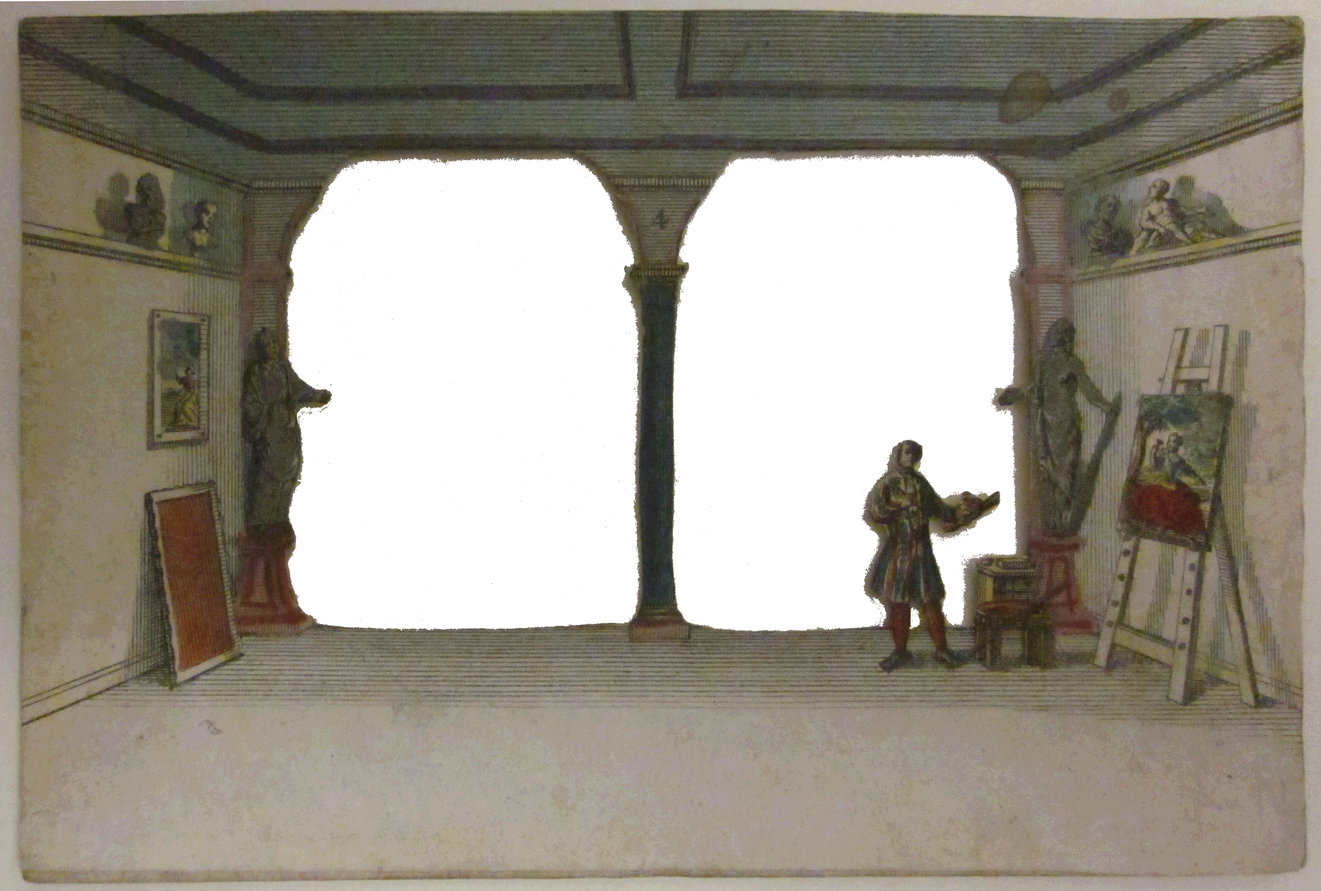
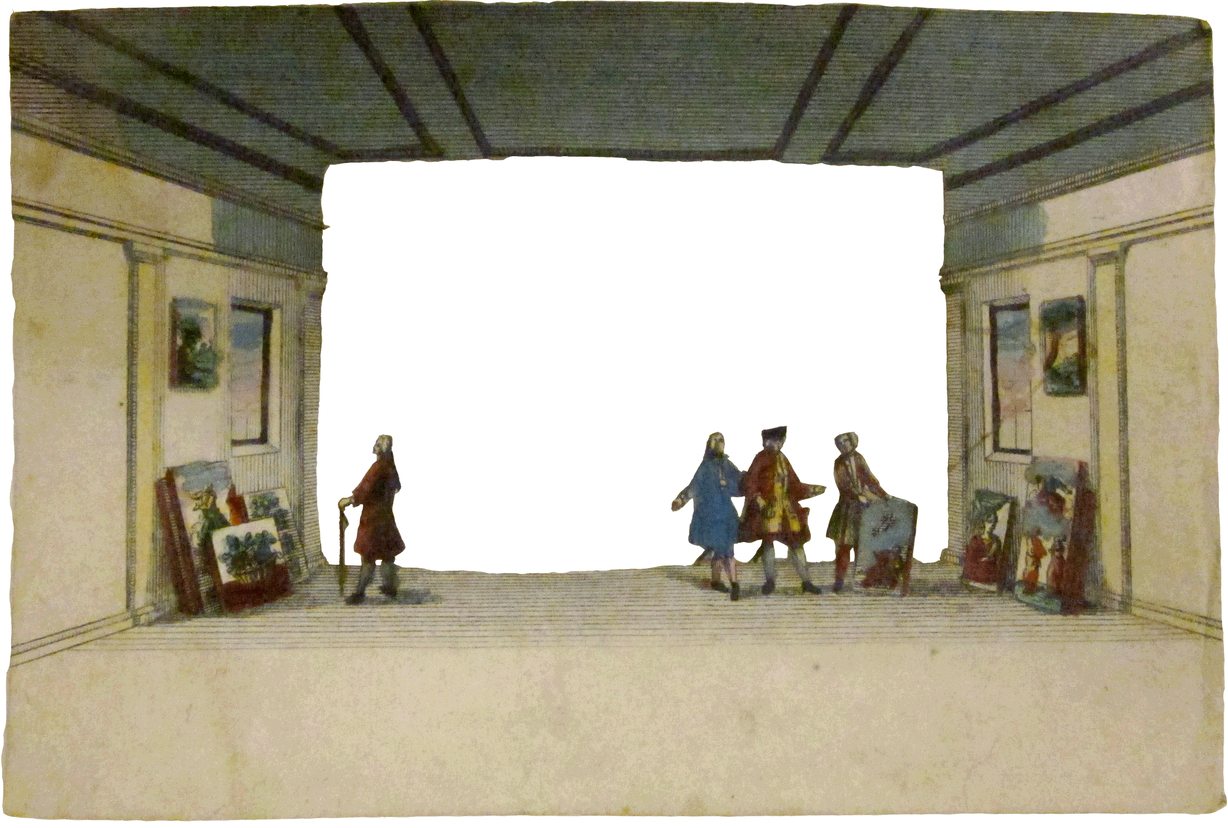
update iiif assets

diff --git a/parallax.html b/parallax.html
@@ -16,15 +16,17 @@
 
 <body>
 <!--
-  <img alt="" src="img/parallax/an_artists_studio_01.jpg"><img alt="" src="img/parallax/an_artists_studio_02.png"><img alt="" src="img/parallax/an_artists_studio_03.png"><img alt="" src="img/parallax/an_artists_studio_05.png"><img alt="" src="img/parallax/an_artists_studio_07.png"><img alt="" src="img/parallax/an_artists_studio_06.png">
   <img alt="" src="img/parallax/layer2.1.jpg"><img alt="" src="img/parallax/layer2.2.png"><img alt="" src="img/parallax/layer2.3.png"><img alt="" src="img/parallax/layer2.2.png"><img alt="" src="img/parallax/layer2.3.png">
 -->
 <div class="parallaxer js-parallaxer">
+  <img alt="" src="img/parallax/an_artists_studio_01.png"><img alt="" src="img/parallax/an_artists_studio_02.png"><img alt="" src="img/parallax/an_artists_studio_03.png"><img alt="" src="img/parallax/an_artists_studio_04.png"><img alt="" src="img/parallax/an_artists_studio_05.png"><img alt="" src="img/parallax/an_artists_studio_06.png">
+<!--
   <img alt="" src="img/parallax/Gestetner_01.png">
   <img alt="" src="img/parallax/Gestetner_02.png">
   <img alt="" src="img/parallax/Gestetner_03.png">
   <img alt="" src="img/parallax/Gestetner_04.png">
   <img alt="" src="img/parallax/Gestetner_05.png">
+-->
 <!--
   <img alt="" src="img/parallax/Gestetner_06.png">
 -->
@@ -81,8 +83,8 @@ const painter = {
         if (el.scale < 1) {
           el.scale = 1;
         } 
-        else if (el.scale > 5) {
-          el.scale = 5;
+        else if (el.scale > 8) {
+          el.scale = 8;
         }
       };
       el.paint();

diff --git a/flicker.html b/flicker.html
@@ -132,7 +132,7 @@ addHandler(window,'resize',function(){
 
 const qstr = new Map(location.search.slice(1).split('&').map(kv => kv.split('=')));
 if (!qstr.has('manifest')) {
-  alert('try ?manifest=http://iiif-int.vam.ac.uk/demos/flickshow/manifest.json');
+  alert('try ?manifest=https://iiif.vam.ac.uk/demos/muybridge/manifest.json');
   flicker.getElementsByTagName('img')[0].onload = function(){ painter.init(this.parentNode, {'loop':1, 'fade':0}) };
 } else {
   manifesto.loadManifest(qstr.get('manifest')).then((manifest) => {
